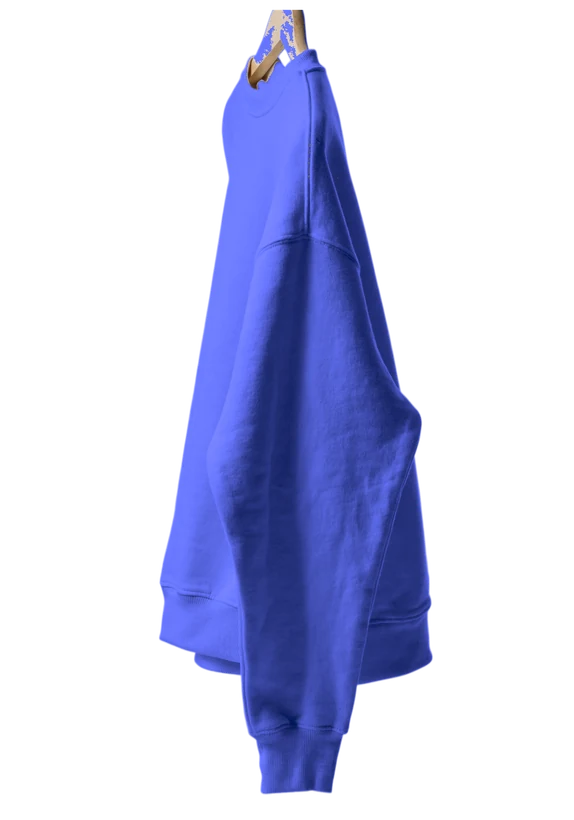
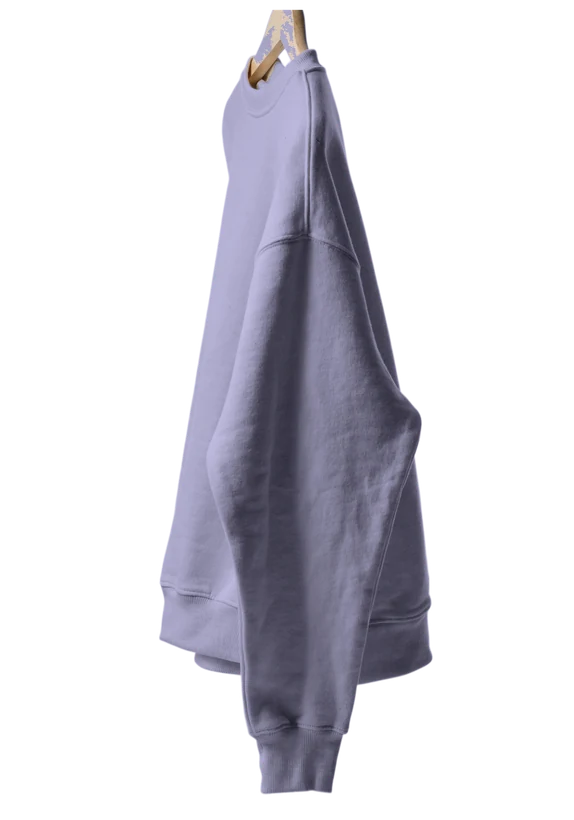
catalog: dye to the cloth, and let the grid be a shelf
THE COLOURS WERE DYED TO THE CHIP. lib/color-swatch holds UI SWATCH values —
vivid, built to stay legible at 16px — and real dyed cotton is never that
saturated. Royal and gold came out looking like plastic because they were
carrying four times the chroma any of these garments has.

Measured against the two colourways actually photographed:

    natural   swatch C*  9.4  ->  cloth C*  8.7   (0.93x)
    charcoal  swatch C* 11.0  ->  cloth C*  1.6   (0.14x)
    iris      swatch C* 76.4  ->  cloth C* 17.8   (0.23x)

So it is not a flat percentage, it SATURATES: a near-neutral barely moves and
a vivid chip collapses. C = 19 * (1 - exp(-C/15)) passes through both measured
points and asymptotes near C* 19, which is where washed pigment-dyed cotton
sits. Lightness travels with it — a vivid chip is also darker than the cloth
it names (iris L* 42 against the garment's L* 60), because saturation and
depth come apart in a wash — so L is pulled toward the washed band in
proportion to the chroma the curve removed.

Redyed chroma now runs 0.1 to 14.2 against a photographed reference of 8.7
and 17.8. No credits: this is the same one photograph per style.

THE TOGGLE IS NOT PAGE TABS. It was drawn `line` — a rule under the live word
— which is a PAGE's tabs, so two ways of looking at one set of garments read
as two destinations sitting on a navigation bar. TabBar's own note draws the
distinction and `segmented` is the level below: a lens on the section you are
[…]

Changed region(s): [[0.2666, 0.0, 0.77, 0.9756]]

diff --git a/web/components/marketing/product-field.tsx b/web/components/marketing/product-field.tsx
@@ -99,6 +99,42 @@ const DURATION: Record<FormId, string> = { hoodie: "82s", crew: "94s", tee: "88s
    1050x1500 canvas is four times the pixels anyone can see, and 24 of them was 14MB a page. */
 const srcOf = (form: FormId, colour: string) => `/frames/rail-${form}-${colour}.webp`
 
+/**
+ * ── THE GRID IS FLAT-LAYS, NOT THE HANGING SHOTS SHRUNK ──────────────────────────────────
+ *
+ * The two views are two ways of SEEING stock, so they take the two shot types that mean those
+ * things. A hanging garment is suspended from a rail — that is a rack, and it is what the rail
+ * view is. A folded garment rests on a surface — that is a shelf, and a grid of tiles is a
+ * shelf. Putting the hanging shots in a grid gives twelve suspended garments floating in
+ * boxes, hanging from nothing, which is the arrangement contradicting the photograph.
+ *
+ * The grid also carries the CAP, which the rail cannot: a cap does not go on a hanger, it goes
+ * on a peg. Folded flat it sits on a shelf like everything else, so the view that is a shelf
+ * is the one where it belongs.
+ */
+type GridFormId = "tee" | "crew" | "hoodie" | "cap"
+const GRID_FORMS: GridFormId[] = ["tee", "crew", "hoodie", "cap"]
+const GRID_LABEL: Record<GridFormId, string> = {
+  tee: "Heavyweight cotton tee",
+  crew: "Heavy blend crewneck",
+  hoodie: "Heavy blend hoodie",
+  cap: "Six-panel cap",
+}
+const GRID_SLUG: Record<GridFormId, string> = {
+  tee: "gildan-unisex-heavy-cotton-t-shirt",
+  crew: "gildan-heavy-blend-crewneck-sweatshirt-18000",
+  hoodie: "comfort-colors-ring-spun-hooded-sweatshirt-1567",
+  cap: "adams-headwear-icon-sandwich-cap",
+}
+/* The flat-lays exist in the three colourways they were shot and graded in — not the rail's
+   twelve. A grid of four forms across twelve colours is 48 tiles, which is a spreadsheet. */
+const GRID_COLOURS = [
+  { slug: "natural", name: "Natural" },
+  { slug: "charcoal", name: "Charcoal" },
+  { slug: "iris", name: "Iris" },
+] as const
+const gridSrc = (form: GridFormId, colour: string) => `/frames/obj-${form}-${colour}.png`
+
 function Garment({ form, colour, name, price, i, cloned }: {
   form: FormId
   colour: string
@@ -238,6 +274,13 @@ export function ProductField({ products, className = "" }: {
     return Number.isFinite(n) && n > 0 ? n : null
   }
 
+  const gridPriceOf = (f: GridFormId): number | null => {
+    const p = (products ?? []).find((x) => x.slug === GRID_SLUG[f])
+    if (!p) return null
+    const n = p.priceFrom ?? p.price
+    return Number.isFinite(n) && n > 0 ? n : null
+  }
+
   const rails = RAILS.map((f) => ({ form: f, price: priceOf(f) })).filter(
     (r): r is { form: FormId; price: number } => r.price !== null,
   )
@@ -255,7 +298,12 @@ export function ProductField({ products, className = "" }: {
   return (
     <section className={"relative w-full overflow-hidden pb-10 " + className} style={{ background: SURFACE }}>
       <div className="mx-auto max-w-[88rem] px-6 sm:px-10">
-        <TabBar items={views} value={view} onChange={(v) => setView(v as ViewId)} ariaLabel="View" />
+        {/* `segmented`, not `line`. TabBar's own note says it: `line` is a PAGE's tabs — which
+            section am I on — and `segmented` is a level below that, a lens on the section you
+            are already in. Rail and Grid are two ways of looking at one set of garments, not
+            two destinations, and drawn as a rule under the live word they read as navigation
+            sitting on a line. §4: shape says KIND. */}
+        <TabBar items={views} value={view} onChange={(v) => setView(v as ViewId)} ariaLabel="View" look="segmented" spacing="none" />
       </div>
 
       <div className={"mt-4 " + (view === "rail" ? "hidden lg:block" : "hidden")}>
@@ -268,20 +316,26 @@ export function ProductField({ products, className = "" }: {
           screen cannot be paused by hovering, so the motion would be decoration nobody can
           stop. Above lg it is a choice — the same garments and the same destinations,
           arranged rather than running, for anyone who would rather scan than watch. */}
-      <div className={"grid grid-cols-2 gap-x-4 gap-y-8 px-6 py-10 sm:grid-cols-4 "
-        + (view === "grid" ? "lg:grid lg:grid-cols-6" : "lg:hidden")}>
-        {rails.flatMap((r) =>
-          COLOURWAYS.map((c) => (
-            <Link
-              key={`${r.form}-${c.slug}`}
-              href={`/catalog/${FORM_SLUG[r.form]}`}
-              aria-label={`${FORM_LABEL[r.form]} in ${c.name}`}
-              className="block"
-            >
-              {/* eslint-disable-next-line @next/next/no-img-element */}
-              <img src={srcOf(r.form, c.slug)} alt="" className="block w-full" />
-            </Link>
-          )),
+      <div className={"grid grid-cols-2 gap-x-5 gap-y-8 px-6 py-10 sm:grid-cols-3 sm:px-10 "
+        + (view === "grid" ? "lg:grid lg:grid-cols-4" : "lg:hidden")}>
+        {GRID_FORMS.flatMap((f) =>
+          gridPriceOf(f) === null
+            ? []
+            : GRID_COLOURS.map((c) => (
+                <Link
+                  key={`${f}-${c.slug}`}
+                  href={`/catalog/${GRID_SLUG[f]}`}
+                  aria-label={`${GRID_LABEL[f]} in ${c.name}`}
+                  className="group block"
+                >
+                  {/* eslint-disable-next-line @next/next/no-img-element */}
+                  <img
+                    src={gridSrc(f, c.slug)}
+                    alt=""
+                    className="block w-full origin-center transition-transform duration-500 ease-out motion-safe:group-hover:scale-[1.04]"
+                  />
+                </Link>
+              )),
         )}
       </div>
     </section>

diff --git a/tools/dye-rail.py b/tools/dye-rail.py
@@ -66,6 +66,41 @@ def wood_mask(arr, lab):
     return band & (C > np.median(C[g]) * 1.9) & warm
 
 
+def cloth_target(hex_target):
+    """
+    DYE TO THE CLOTH, NOT TO THE CHIP.
+
+    lib/color-swatch holds UI SWATCH colours — vivid chips built to stay legible at 16px. Real
+    dyed cotton is never that saturated, and the gap widens the more vivid the chip gets.
+    Measured against the two colourways we actually photographed:
+
+        natural   swatch C* 9.4  ->  cloth C*  8.7   (0.93x — a near-neutral barely moves)
+        charcoal  swatch C* 11.0 ->  cloth C*  1.6   (0.14x)
+        iris      swatch C* 76.4 ->  cloth C* 17.8   (0.23x)
+
+    So it is not a flat percentage; it SATURATES. C = 19 * (1 - exp(-C_swatch / 15)) passes
+    through both measured points and asymptotes near C* 19, which is where washed pigment-dyed
+    cotton actually sits. Dyeing straight to the chip is what made royal and gold look like
+    plastic — they were carrying four times the chroma any of these garments has.
+
+    Lightness moves with it. A vivid chip is also darker than the cloth it names (iris: L* 42
+    against the garment's L* 60), because saturation and depth travel together in a swatch and
+    come apart in a wash. So L is pulled toward the washed band in proportion to how much
+    chroma the curve just removed — a colour that barely compressed barely moves.
+    """
+    t = np.array([[[int(hex_target[i:i + 2], 16) for i in (1, 3, 5)]]], dtype=np.float64)
+    L, A, B = to_lab(t)[0, 0]
+    C = np.hypot(A, B)
+    if C < 0.5:
+        return L, A, B
+    C2 = 19.0 * (1 - np.exp(-C / 15.0))
+    k = C2 / C
+    removed = 1 - k                      # 0 for a neutral, ->1 for a vivid chip
+    WASHED = 62.0
+    L2 = L + (WASHED - L) * removed * 0.55
+    return L2, A * k, B * k
+
+
 def dye(im, hex_target):
     arr = np.array(im).astype(np.float64)
     a = arr[..., 3]
@@ -76,8 +111,7 @@ def dye(im, hex_target):
     wood = wood_mask(arr, lab)
     cloth = (a > 8) & ~wood
 
-    t = np.array([[[int(hex_target[i:i + 2], 16) for i in (1, 3, 5)]]], dtype=np.float64)
-    tL, tA, tB = to_lab(t)[0, 0]
+    tL, tA, tB = cloth_target(hex_target)
 
     ref = g & ~wood
     mL = L[ref].mean()
